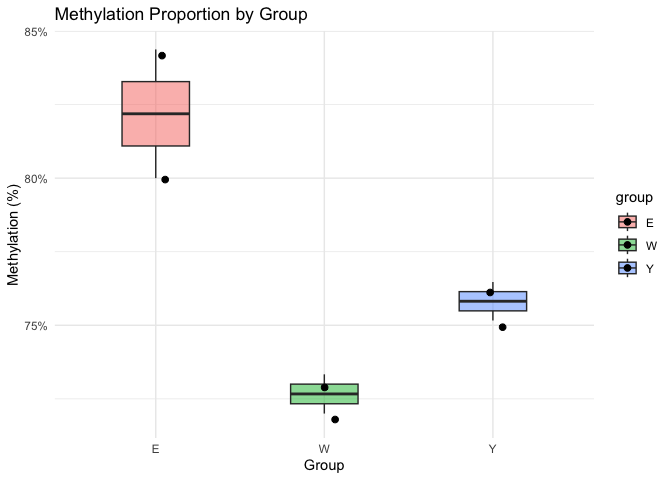
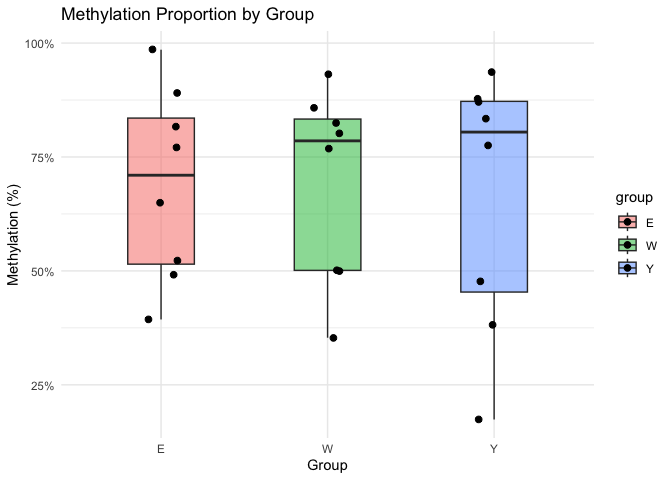
1

diff --git a/results/2025-08-06/README.md b/results/2025-08-06/README.md
@@ -16,19 +16,26 @@
     ## 
     ##     intersect, setdiff, setequal, union
 
-    # Simulated example dataset
-    df <- data.frame(
-      Sample = paste0("S", 1:6),
-      group = c("E", "E", "W", "W", "Y", "Y"),
-      CpG = c(1200, 1350, 1100, 1080, 1150, 1170),
-      uCpG = c(300, 250, 400, 420, 380, 360)
-    )
+    library(data.table)
 
-    df <- df %>%
-      mutate(
-        total = CpG + uCpG,
-        prop = CpG / total
-      )
+    ## Warning: package 'data.table' was built under R version 4.4.3
+
+    ## 
+    ## Attaching package: 'data.table'
+
+    ## The following objects are masked from 'package:dplyr':
+    ## 
+    ##     between, first, last
+
+    # Simulated example dataset
+    #df <- data.frame(
+    #  Sample = paste0("S", 1:6),
+    #  group = c("E", "E", "W", "W", "Y", "Y"),
+    #  CpG = c(1200, 1350, 1100, 1080, 1150, 1170),
+    #  uCpG = c(300, 250, 400, 420, 380, 360)
+    #)
+    df = fread("cpg_prop_by_group.csv")
+    df <- df %>% mutate( total = CpG + uCpG, prop = CpG / total)
 
     knitr::kable(df, caption = "CpG and uCpG Counts with Methylation Proportions")
 
@@ -36,62 +43,181 @@
 <caption>CpG and uCpG Counts with Methylation Proportions</caption>
 <thead>
 <tr class="header">
-<th style="text-align: left;">Sample</th>
-<th style="text-align: left;">group</th>
 <th style="text-align: right;">CpG</th>
 <th style="text-align: right;">uCpG</th>
+<th style="text-align: left;">group</th>
 <th style="text-align: right;">total</th>
 <th style="text-align: right;">prop</th>
 </tr>
 </thead>
 <tbody>
 <tr class="odd">
-<td style="text-align: left;">S1</td>
-<td style="text-align: left;">E</td>
-<td style="text-align: right;">1200</td>
-<td style="text-align: right;">300</td>
-<td style="text-align: right;">1500</td>
-<td style="text-align: right;">0.8000000</td>
+<td style="text-align: right;">4308615</td>
+<td style="text-align: right;">642693</td>
+<td style="text-align: left;">Y</td>
+<td style="text-align: right;">4951308</td>
+<td style="text-align: right;">0.8701973</td>
 </tr>
 <tr class="even">
-<td style="text-align: left;">S2</td>
-<td style="text-align: left;">E</td>
-<td style="text-align: right;">1350</td>
-<td style="text-align: right;">250</td>
-<td style="text-align: right;">1600</td>
-<td style="text-align: right;">0.8437500</td>
+<td style="text-align: right;">642693</td>
+<td style="text-align: right;">3053642</td>
+<td style="text-align: left;">Y</td>
+<td style="text-align: right;">3696335</td>
+<td style="text-align: right;">0.1738730</td>
 </tr>
 <tr class="odd">
-<td style="text-align: left;">S3</td>
-<td style="text-align: left;">W</td>
-<td style="text-align: right;">1100</td>
-<td style="text-align: right;">400</td>
-<td style="text-align: right;">1500</td>
-<td style="text-align: right;">0.7333333</td>
+<td style="text-align: right;">25330027</td>
+<td style="text-align: right;">5055681</td>
+<td style="text-align: left;">Y</td>
+<td style="text-align: right;">30385708</td>
+<td style="text-align: right;">0.8336165</td>
 </tr>
 <tr class="even">
-<td style="text-align: left;">S4</td>
-<td style="text-align: left;">W</td>
-<td style="text-align: right;">1080</td>
-<td style="text-align: right;">420</td>
-<td style="text-align: right;">1500</td>
-<td style="text-align: right;">0.7200000</td>
+<td style="text-align: right;">3053642</td>
+<td style="text-align: right;">4944743</td>
+<td style="text-align: left;">Y</td>
+<td style="text-align: right;">7998385</td>
+<td style="text-align: right;">0.3817823</td>
 </tr>
 <tr class="odd">
-<td style="text-align: left;">S5</td>
+<td style="text-align: right;">42007137</td>
+<td style="text-align: right;">2860849</td>
 <td style="text-align: left;">Y</td>
-<td style="text-align: right;">1150</td>
-<td style="text-align: right;">380</td>
-<td style="text-align: right;">1530</td>
-<td style="text-align: right;">0.7516340</td>
+<td style="text-align: right;">44867986</td>
+<td style="text-align: right;">0.9362385</td>
 </tr>
 <tr class="even">
-<td style="text-align: left;">S6</td>
+<td style="text-align: right;">5055681</td>
+<td style="text-align: right;">1461799</td>
 <td style="text-align: left;">Y</td>
-<td style="text-align: right;">1170</td>
-<td style="text-align: right;">360</td>
-<td style="text-align: right;">1530</td>
-<td style="text-align: right;">0.7647059</td>
+<td style="text-align: right;">6517480</td>
+<td style="text-align: right;">0.7757110</td>
+</tr>
+<tr class="odd">
+<td style="text-align: right;">40587466</td>
+<td style="text-align: right;">5651380</td>
+<td style="text-align: left;">Y</td>
+<td style="text-align: right;">46238846</td>
+<td style="text-align: right;">0.8777785</td>
+</tr>
+<tr class="even">
+<td style="text-align: right;">4944743</td>
+<td style="text-align: right;">5410179</td>
+<td style="text-align: left;">Y</td>
+<td style="text-align: right;">10354922</td>
+<td style="text-align: right;">0.4775259</td>
+</tr>
+<tr class="odd">
+<td style="text-align: right;">21675688</td>
+<td style="text-align: right;">4861527</td>
+<td style="text-align: left;">E</td>
+<td style="text-align: right;">26537215</td>
+<td style="text-align: right;">0.8168034</td>
+</tr>
+<tr class="even">
+<td style="text-align: right;">2860849</td>
+<td style="text-align: right;">2956346</td>
+<td style="text-align: left;">E</td>
+<td style="text-align: right;">5817195</td>
+<td style="text-align: right;">0.4917918</td>
+</tr>
+<tr class="odd">
+<td style="text-align: right;">10002396</td>
+<td style="text-align: right;">2974891</td>
+<td style="text-align: left;">E</td>
+<td style="text-align: right;">12977287</td>
+<td style="text-align: right;">0.7707617</td>
+</tr>
+<tr class="even">
+<td style="text-align: right;">1461799</td>
+<td style="text-align: right;">2253938</td>
+<td style="text-align: left;">E</td>
+<td style="text-align: right;">3715737</td>
+<td style="text-align: right;">0.3934076</td>
+</tr>
+<tr class="odd">
+<td style="text-align: right;">43584903</td>
+<td style="text-align: right;">642693</td>
+<td style="text-align: left;">E</td>
+<td style="text-align: right;">44227596</td>
+<td style="text-align: right;">0.9854685</td>
+</tr>
+<tr class="even">
+<td style="text-align: right;">5651380</td>
+<td style="text-align: right;">3053642</td>
+<td style="text-align: left;">E</td>
+<td style="text-align: right;">8705022</td>
+<td style="text-align: right;">0.6492092</td>
+</tr>
+<tr class="odd">
+<td style="text-align: right;">41349553</td>
+<td style="text-align: right;">5055681</td>
+<td style="text-align: left;">E</td>
+<td style="text-align: right;">46405234</td>
+<td style="text-align: right;">0.8910536</td>
+</tr>
+<tr class="even">
+<td style="text-align: right;">5410179</td>
+<td style="text-align: right;">4944743</td>
+<td style="text-align: left;">E</td>
+<td style="text-align: right;">10354922</td>
+<td style="text-align: right;">0.5224741</td>
+</tr>
+<tr class="odd">
+<td style="text-align: right;">38800768</td>
+<td style="text-align: right;">2860849</td>
+<td style="text-align: left;">W</td>
+<td style="text-align: right;">41661617</td>
+<td style="text-align: right;">0.9313313</td>
+</tr>
+<tr class="even">
+<td style="text-align: right;">4861527</td>
+<td style="text-align: right;">1461799</td>
+<td style="text-align: left;">W</td>
+<td style="text-align: right;">6323326</td>
+<td style="text-align: right;">0.7688243</td>
+</tr>
+<tr class="odd">
+<td style="text-align: right;">22889880</td>
+<td style="text-align: right;">5651380</td>
+<td style="text-align: left;">W</td>
+<td style="text-align: right;">28541260</td>
+<td style="text-align: right;">0.8019926</td>
+</tr>
+<tr class="even">
+<td style="text-align: right;">2956346</td>
+<td style="text-align: right;">5410179</td>
+<td style="text-align: left;">W</td>
+<td style="text-align: right;">8366525</td>
+<td style="text-align: right;">0.3533541</td>
+</tr>
+<tr class="odd">
+<td style="text-align: right;">22925819</td>
+<td style="text-align: right;">4861527</td>
+<td style="text-align: left;">W</td>
+<td style="text-align: right;">27787346</td>
+<td style="text-align: right;">0.8250453</td>
+</tr>
+<tr class="even">
+<td style="text-align: right;">2974891</td>
+<td style="text-align: right;">2956346</td>
+<td style="text-align: left;">W</td>
+<td style="text-align: right;">5931237</td>
+<td style="text-align: right;">0.5015633</td>
+</tr>
+<tr class="odd">
+<td style="text-align: right;">17946855</td>
+<td style="text-align: right;">2974891</td>
+<td style="text-align: left;">W</td>
+<td style="text-align: right;">20921746</td>
+<td style="text-align: right;">0.8578087</td>
+</tr>
+<tr class="even">
+<td style="text-align: right;">2253938</td>
+<td style="text-align: right;">2253938</td>
+<td style="text-align: left;">W</td>
+<td style="text-align: right;">4507876</td>
+<td style="text-align: right;">0.5000000</td>
 </tr>
 </tbody>
 </table>
@@ -116,32 +242,32 @@ CpG and uCpG Counts with Methylation Proportions
     ## glm(formula = cbind(CpG, uCpG) ~ group, family = binomial, data = df)
     ## 
     ## Coefficients:
-    ##             Estimate Std. Error z value Pr(>|z|)    
-    ## (Intercept)  1.53393    0.04701  32.627  < 2e-16 ***
-    ## groupW      -0.55615    0.06236  -8.919  < 2e-16 ***
-    ## groupY      -0.39126    0.06319  -6.192 5.94e-10 ***
+    ##               Estimate Std. Error z value Pr(>|z|)    
+    ## (Intercept)  1.5964873  0.0002121  7528.6   <2e-16 ***
+    ## groupW      -0.1937415  0.0002980  -650.2   <2e-16 ***
+    ## groupY      -0.1308449  0.0002955  -442.9   <2e-16 ***
     ## ---
     ## Signif. codes:  0 '***' 0.001 '**' 0.01 '*' 0.05 '.' 0.1 ' ' 1
     ## 
     ## (Dispersion parameter for binomial family taken to be 1)
     ## 
-    ##     Null deviance: 95.830  on 5  degrees of freedom
-    ## Residual deviance: 11.538  on 3  degrees of freedom
-    ## AIC: 62.067
+    ##     Null deviance: 74160572  on 23  degrees of freedom
+    ## Residual deviance: 73717859  on 21  degrees of freedom
+    ## AIC: 73718256
     ## 
-    ## Number of Fisher Scoring iterations: 4
+    ## Number of Fisher Scoring iterations: 5
 
     cat("Null deviance:", round(glm_fit$null.deviance), "on", glm_fit$df.null, "degrees of freedom\n")
 
-    ## Null deviance: 96 on 5 degrees of freedom
+    ## Null deviance: 74160572 on 23 degrees of freedom
 
     cat("Residual deviance:", round(glm_fit$deviance), "on", glm_fit$df.residual, "degrees of freedom\n")
 
-    ## Residual deviance: 12 on 3 degrees of freedom
+    ## Residual deviance: 73717859 on 21 degrees of freedom
 
     cat("AIC:", round(AIC(glm_fit)), "\n")
 
-    ## AIC: 62
+    ## AIC: 73718256
 
     invlogit <- function(x) exp(x) / (1 + exp(x))
 
@@ -167,15 +293,15 @@ CpG and uCpG Counts with Methylation Proportions
 <tbody>
 <tr class="odd">
 <td style="text-align: left;">E</td>
-<td style="text-align: right;">0.8226</td>
+<td style="text-align: right;">0.8315</td>
 </tr>
 <tr class="even">
 <td style="text-align: left;">W</td>
-<td style="text-align: right;">0.7267</td>
+<td style="text-align: right;">0.8026</td>
 </tr>
 <tr class="odd">
 <td style="text-align: left;">Y</td>
-<td style="text-align: right;">0.7582</td>
+<td style="text-align: right;">0.8124</td>
 </tr>
 </tbody>
 </table>
